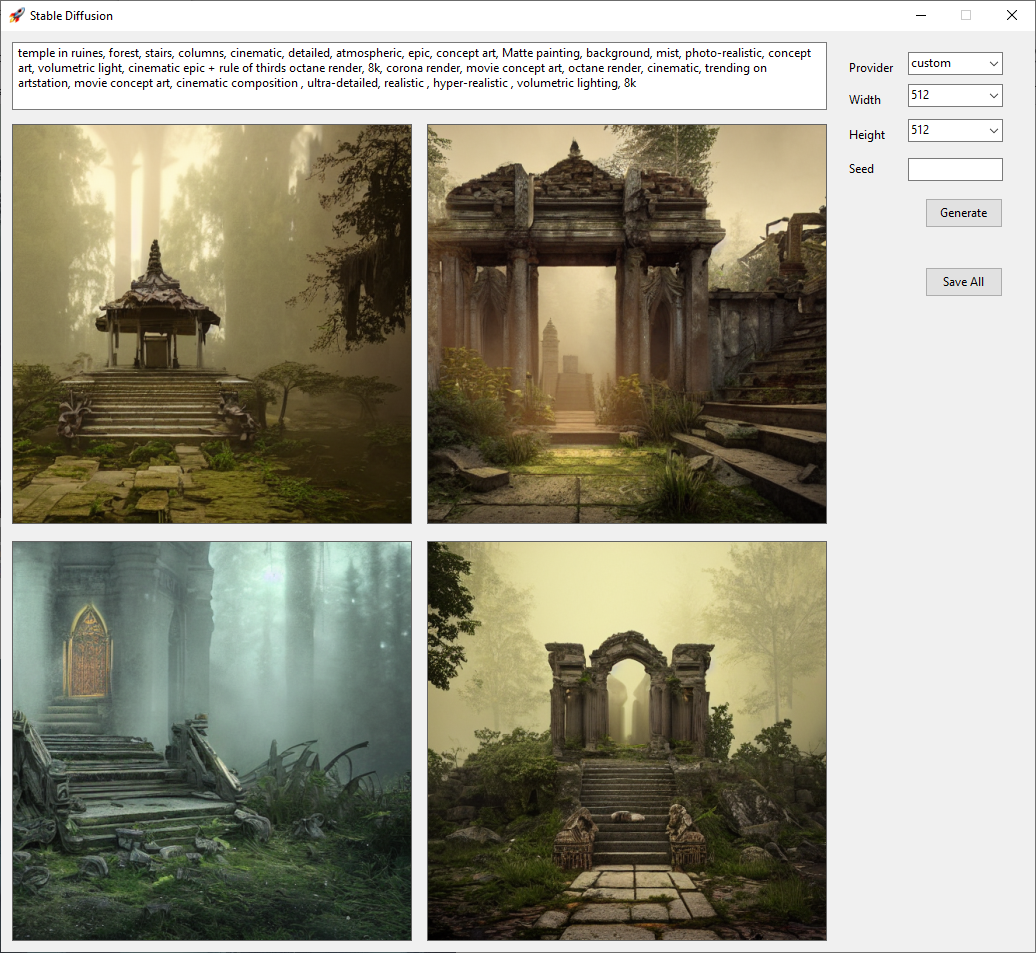
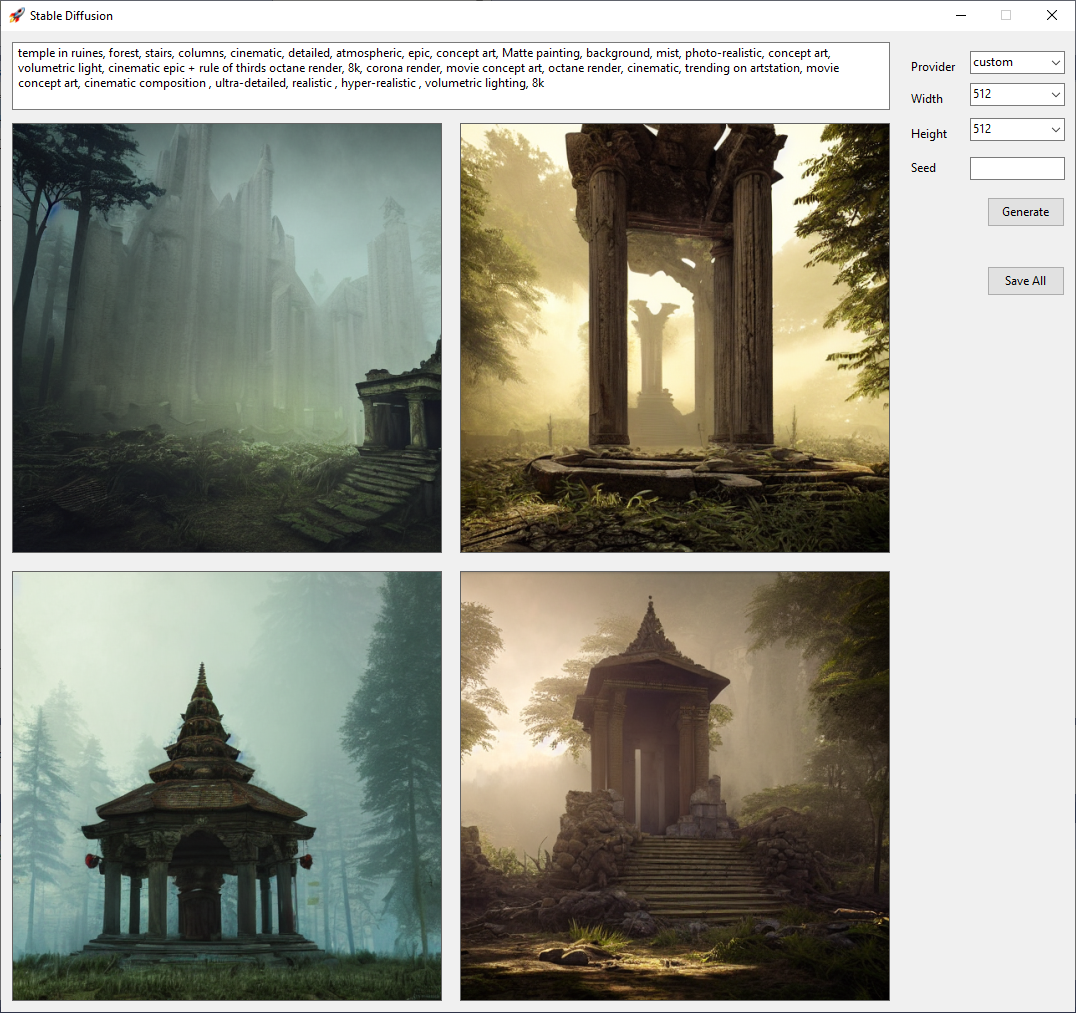
.

diff --git a/examples/Replicate.Net.WinFormsApp/MainForm.Designer.cs b/examples/Replicate.Net.WinFormsApp/MainForm.Designer.cs
@@ -60,10 +60,10 @@
             // 
             this.picture0.BorderStyle = System.Windows.Forms.BorderStyle.FixedSingle;
             this.picture0.ImageLocation = "";
-            this.picture0.Location = new System.Drawing.Point(11, 93);
+            this.picture0.Location = new System.Drawing.Point(11, 92);
             this.picture0.Margin = new System.Windows.Forms.Padding(2);
             this.picture0.Name = "picture0";
-            this.picture0.Size = new System.Drawing.Size(400, 400);
+            this.picture0.Size = new System.Drawing.Size(430, 430);
             this.picture0.SizeMode = System.Windows.Forms.PictureBoxSizeMode.Zoom;
             this.picture0.TabIndex = 1;
             this.picture0.TabStop = false;
@@ -75,7 +75,7 @@
             this.txtPrompt.Margin = new System.Windows.Forms.Padding(2);
             this.txtPrompt.Multiline = true;
             this.txtPrompt.Name = "txtPrompt";
-            this.txtPrompt.Size = new System.Drawing.Size(815, 68);
+            this.txtPrompt.Size = new System.Drawing.Size(878, 68);
             this.txtPrompt.TabIndex = 2;
             this.txtPrompt.Text = "multicolor hyperspace";
             this.txtPrompt.TextChanged += new System.EventHandler(this.txtPrompt_TextChanged);
@@ -84,10 +84,10 @@
             // 
             this.picture1.BorderStyle = System.Windows.Forms.BorderStyle.FixedSingle;
             this.picture1.ImageLocation = "";
-            this.picture1.Location = new System.Drawing.Point(426, 93);
+            this.picture1.Location = new System.Drawing.Point(459, 92);
             this.picture1.Margin = new System.Windows.Forms.Padding(2);
             this.picture1.Name = "picture1";
-            this.picture1.Size = new System.Drawing.Size(400, 400);
+            this.picture1.Size = new System.Drawing.Size(430, 430);
             this.picture1.SizeMode = System.Windows.Forms.PictureBoxSizeMode.Zoom;
             this.picture1.TabIndex = 3;
             this.picture1.TabStop = false;
@@ -97,10 +97,10 @@
             // 
             this.picture2.BorderStyle = System.Windows.Forms.BorderStyle.FixedSingle;
             this.picture2.ImageLocation = "";
-            this.picture2.Location = new System.Drawing.Point(11, 510);
+            this.picture2.Location = new System.Drawing.Point(11, 540);
             this.picture2.Margin = new System.Windows.Forms.Padding(2);
             this.picture2.Name = "picture2";
-            this.picture2.Size = new System.Drawing.Size(400, 400);
+            this.picture2.Size = new System.Drawing.Size(430, 430);
             this.picture2.SizeMode = System.Windows.Forms.PictureBoxSizeMode.Zoom;
             this.picture2.TabIndex = 4;
             this.picture2.TabStop = false;
@@ -110,10 +110,10 @@
             // 
             this.picture3.BorderStyle = System.Windows.Forms.BorderStyle.FixedSingle;
             this.picture3.ImageLocation = "";
-            this.picture3.Location = new System.Drawing.Point(426, 510);
+            this.picture3.Location = new System.Drawing.Point(459, 540);
             this.picture3.Margin = new System.Windows.Forms.Padding(2);
             this.picture3.Name = "picture3";
-            this.picture3.Size = new System.Drawing.Size(400, 400);
+            this.picture3.Size = new System.Drawing.Size(430, 430);
             this.picture3.SizeMode = System.Windows.Forms.PictureBoxSizeMode.Zoom;
             this.picture3.TabIndex = 5;
             this.picture3.TabStop = false;
@@ -231,9 +231,9 @@
             this.panel1.Controls.Add(this.lblWidth);
             this.panel1.Controls.Add(this.lblProvider);
             this.panel1.Controls.Add(this.btnGenerate);
-            this.panel1.Location = new System.Drawing.Point(842, 12);
+            this.panel1.Location = new System.Drawing.Point(904, 11);
             this.panel1.Name = "panel1";
-            this.panel1.Size = new System.Drawing.Size(170, 898);
+            this.panel1.Size = new System.Drawing.Size(170, 959);
             this.panel1.TabIndex = 8;
             // 
             // lblSeed
@@ -256,7 +256,7 @@
             // 
             this.AutoScaleDimensions = new System.Drawing.SizeF(7F, 15F);
             this.AutoScaleMode = System.Windows.Forms.AutoScaleMode.Font;
-            this.ClientSize = new System.Drawing.Size(1019, 921);
+            this.ClientSize = new System.Drawing.Size(1074, 981);
             this.Controls.Add(this.picture3);
             this.Controls.Add(this.picture2);
             this.Controls.Add(this.picture1);
